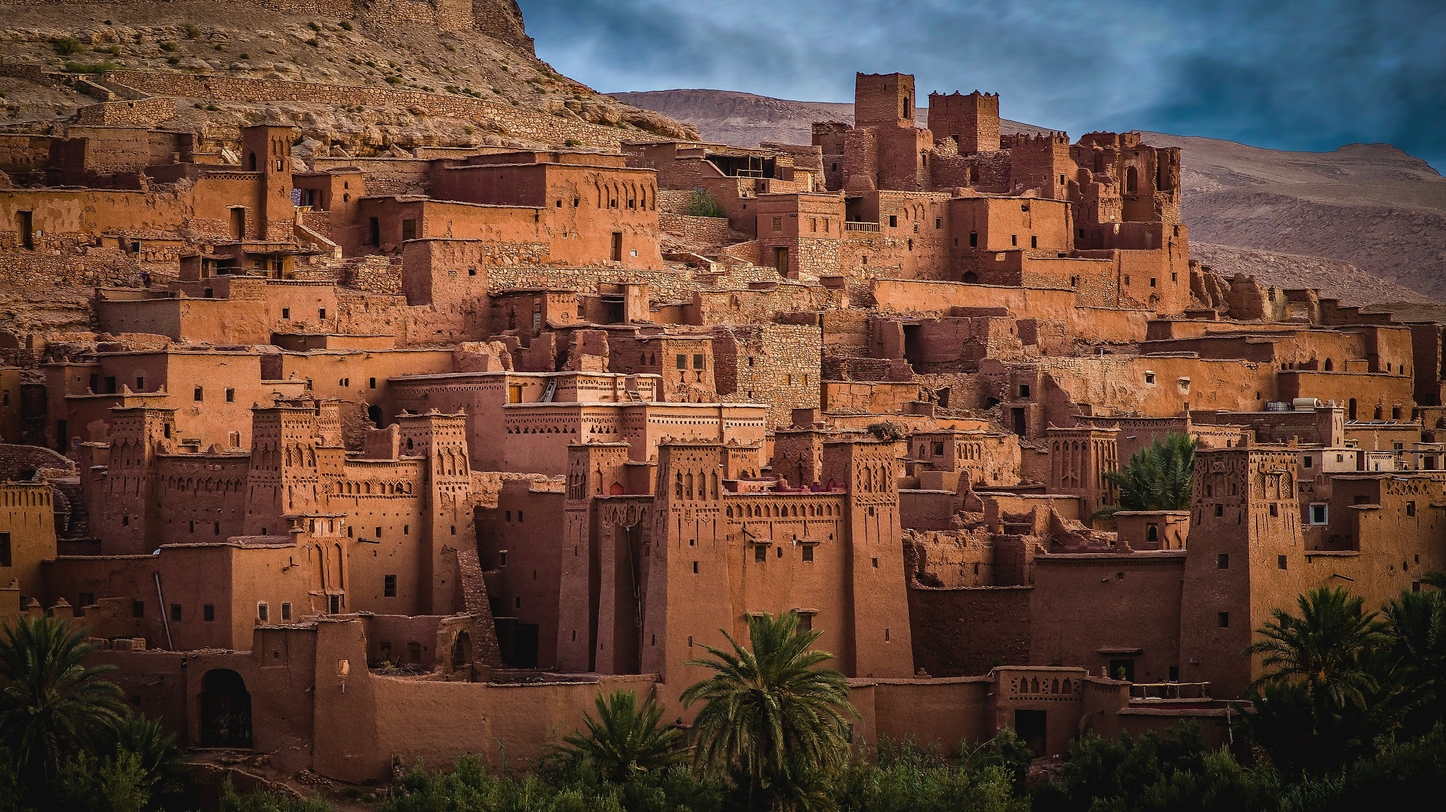
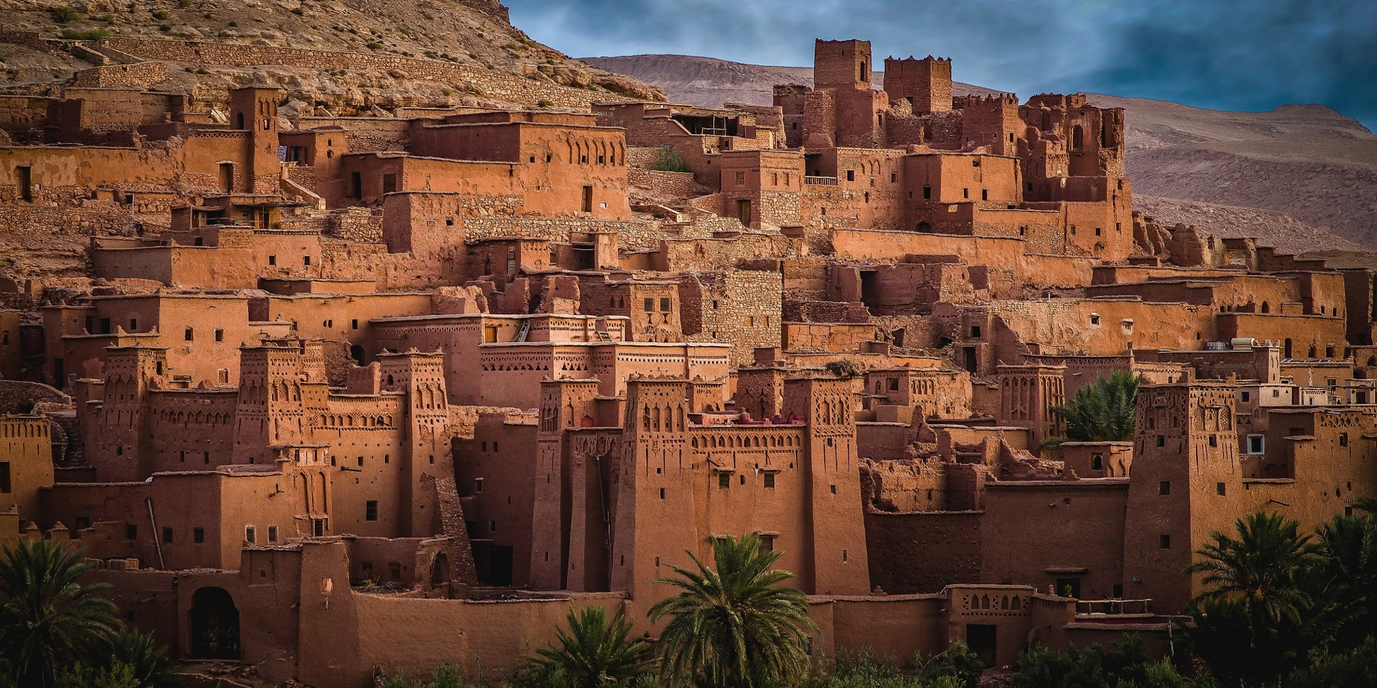
Refactor(facts): Change for background of facts

diff --git a/src/app/models/fact.model.ts b/src/app/models/fact.model.ts
@@ -19,23 +19,23 @@ export const facts = [
     "id": 0,
 		"title": "La Cité de Faradel",
 		"zone": "Faradel",
-		"logoSrc": "https://via.placeholder.com/200x200",
-		"backgroundSrc": "https://via.placeholder.com/1000x400",
+		"logoSrc": "assets/images/facts/icon.png",
+		"backgroundSrc": "assets/images/facts/faradel.jpg",
     "description": "La magie du Monde d'Arlénor provient des cristaux laissés par les Anges et les Démons lors de la Création..."
   },
   {
     "id": 1,
     "title": "La Tour du Savoir",
 		"zone": "Faradel",
-		"logoSrc": "https://via.placeholder.com/200x200",
-		"backgroundSrc": "https://via.placeholder.com/1000x400",
+		"logoSrc": "assets/images/facts/icon.png",
+		"backgroundSrc": "assets/images/facts/tour.jpg",
     "description": "Selon la légende connue par tous, la divinité de la Vie et de la Mort, Arlénor, a façonné le monde..."
   },
   {
     "id": 2,
     "title": "Le Commerce de Jirakan",
 		"zone": "Jirakan",
-		"logoSrc": "https://via.placeholder.com/200x200",
+		"logoSrc": "assets/images/facts/icon.png",
 		"backgroundSrc": "assets/images/facts/jirakan.jpg",
     "description": "La magie du Monde d'Arlénor provient des cristaux laissés par les Anges et les Démons lors de la Création..."
   },
@@ -43,7 +43,7 @@ export const facts = [
     "id": 3,
     "title": "Le Grand Massacre",
 		"zone": "Jirakan",
-		"logoSrc": "https://via.placeholder.com/200x200",
+		"logoSrc": "assets/images/facts/icon.png",
 		"backgroundSrc": "assets/images/facts/massacre.jpg",
     "description": "Selon la légende connue par tous, la divinité de la Vie et de la Mort, Arlénor, a façonné le monde..."
   },
@@ -51,8 +51,8 @@ export const facts = [
     "id": 4,
     "title": "L'Ile de Lumeck",
 		"zone": "Shivazen",
-		"logoSrc": "https://via.placeholder.com/200x200",
-		"backgroundSrc": "https://via.placeholder.com/1000x400",
+		"logoSrc": "assets/images/facts/icon.png",
+		"backgroundSrc": "assets/images/facts/faradel.jpg",
     "description": "La magie du Monde d'Arlénor provient des cristaux laissés par les Anges et les Démons lors de la Création..."
 	}
 ]

diff --git a/src/app/pages/fact/fact.component.scss b/src/app/pages/fact/fact.component.scss
@@ -2,22 +2,12 @@
 
 :host {
 
+		background-color: $dark-color;
+
     .head-container {
         position: relative;
-        height: 400px;
-        box-shadow: 0 -150px 200px $dark-color inset;
-
-        .title-background {
-            position: absolute;
-            height: 100%;
-            width: 100%;
-            top: 0;
-            left: 0;
-            right: 0;
-            z-index: -1;
-            margin-left: auto;
-            margin-right: auto;
-        }
+        height: 600px;
+				box-shadow: 0 -250px 500px $dark-color inset;
 
         .title-container {
             position: absolute;
@@ -37,7 +27,6 @@
           height: 200px;
           width: 200px;
           transform: translateX(-50%);
-          border: 1px solid $dark-color;
       }
 		}
 }

diff --git a/src/app/pages/fact/fact.component.html b/src/app/pages/fact/fact.component.html
@@ -1,5 +1,7 @@
-<div padding-vert class="head-container">
-	<img class="title-background" src="{{ fact.backgroundSrc }}" alt="">
+<div padding-vert class="head-container"
+	[ngStyle]="{	'background-image': 'url(' + fact.backgroundSrc + ')' }"
+	[style.backgroundSize]="'cover'"
+	[style.backgroundPosition]="'center'">
 	<img class="title-logo" src="{{ fact.logoSrc }}" alt="">
 	<h1 class="title-container">{{ fact.title | uppercase }}</h1>
 </div>

diff --git a/src/styles/variables.scss b/src/styles/variables.scss
@@ -6,5 +6,5 @@ $primary-color: #247899;
 $light-primary-color: #7ADAFF;
 
 $dark-secondary-color: #CAC080;
-$secondary-color: #D0CAAA;
+$secondary-color: #ECDE93;
 $light-secondary-color: #FAF0A0;
